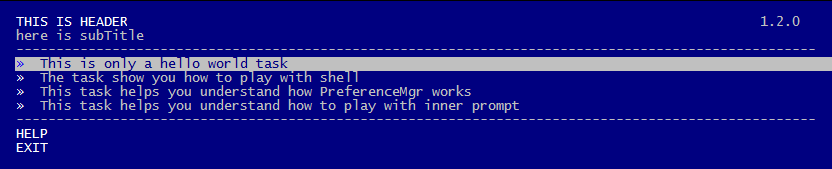
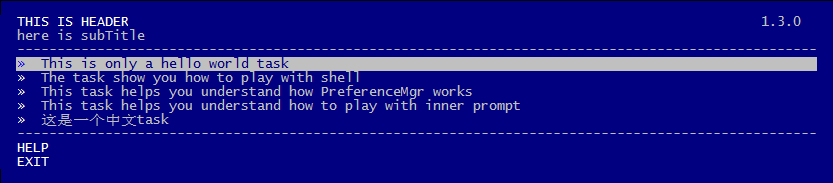
support menu item contains charater which length is larger than 1

Changed region(s): [[0.0, 0.2663, 1.0, 0.9172], [0.0, 0.0888, 0.1875, 0.2367], [0.9062, 0.0888, 0.9688, 0.1775]]

diff --git a/index.js b/index.js
@@ -15,6 +15,8 @@ var logger = utils.logger;
 var defaults = {
     title: '===============================================',
     subtitle: '-----------------------------------------',
+    helpTxt: 'HELP',
+    exitTxt: 'EXIT',
     width: 100,
     x: 3,
     y: 2,
@@ -45,7 +47,7 @@ var createMenu = function(opts) {
         //clean up the terminal
         menu.reset();
         //display the title
-        menu.write(chalk.bold(options.title.toUpperCase()) + utils.repeat(' ', options.width - options.title.length - options.version.length - 2) + chalk.dim(options.version) + '\n');
+        menu.write(chalk.bold(options.title.toUpperCase()) + utils.repeat(' ', options.width - utils.length(options.title, 'utf-8') - options.version.length - 2) + chalk.dim(options.version) + '\n');
         //display the subtitle
         menu.write(chalk.italic(options.subtitle) + '\n');
         //display start separator
@@ -53,18 +55,20 @@ var createMenu = function(opts) {
 
 
         tasks.forEach(function(task, index) {
-            menu.add(chalk.bold('»') + ' ' + task.name + utils.repeat(' ', options.width - task.name.length - 1));
+            menu.add(chalk.bold('»') + ' ' + task.name + utils.repeat(' ', options.width - utils.length(task.name) - 3));
         });
 
         //display end separator
         menu.write(utils.repeat('-', options.width) + '\n');
         //display help
-        menu.add(chalk.bold('HELP'));
+        if (fs.existsSync(options.helpFile)) {
+            menu.add(chalk.bold(options.helpTxt) + utils.repeat(' ', options.width - utils.length(options.helpTxt)));
+        }
         //display exit
-        menu.add(chalk.bold('EXIT'));
+        menu.add(chalk.bold(options.exitTxt) + utils.repeat(' ', options.width - utils.length(options.exitTxt)));
 
         menu.on('select', function(label, index) {
-            var name = chalk.stripColor(label).replace(/(^»?\s+)/g, '');
+            var name = chalk.stripColor(label).replace(/(^»?\s+)|(\s+$)/g, '');
 
             menu.y = 0;
             menu.reset();
@@ -75,12 +79,9 @@ var createMenu = function(opts) {
             }
 
             if (name === 'HELP') {
-                if (fs.existsSync(options.helpFile)) {
-                    utils.printFile(options.helpFile);
-                }
+                utils.printFile(options.helpFile);
                 return;
             }
-
             var task = taskMgr.getTaskByIndex(index);
 
             var runner = taskMgr.run(task.id);

diff --git a/libs/Utils.js b/libs/Utils.js
@@ -14,7 +14,7 @@ var convertInput = function(parameters) {
         if (typeof value === 'object') {
             try {
                 return JSON.stringify(value);
-            } catch (e) {
+            } catch ( e ) {
                 return value.toString();
             }
         }
@@ -51,6 +51,17 @@ var Utils = {
     repeat: function(ch, sz) {
         return new Array(sz + 1).join(ch);
     },
+    length: function(str) {
+        var len = 0;
+        for (var i = 0; i < str.length; i++) {
+            if (str.charCodeAt(i) > 256) {
+                len += 2;
+                continue;
+            }
+            len += 1;
+        }
+        return len;
+    },
     convertPath: function(path) {
         var p = path;
         if (isWin) {
@@ -86,7 +97,7 @@ var Utils = {
             contents = colorsTmpl(contents);
 
             console.log(contents);
-        } catch (e) {
+        } catch ( e ) {
             throw e;
         }
 

diff --git a/examples/tasks/chinese/Task.js b/examples/tasks/chinese/Task.js
@@ -1,0 +1,16 @@
+var TaskRunner = require('../../../index');
+var logger = TaskRunner.logger;
+
+
+
+var Task = TaskRunner.Base.extend({
+    id: 'chinese',
+    name: '这是一个中文task',
+    position: 5,
+    run: function(cons) {
+        logger.warn('您好，世界');
+    }
+});
+
+
+module.exports = Task;

diff --git a/test/basic.js b/test/basic.js
@@ -1,0 +1,10 @@
+var describe = require('mocha').describe;
+var it = require('mocha').it;
+
+describe('basic test', function() {
+
+    it('should work in any mode', function(done) {
+        done();
+    });
+
+});

diff --git a/README.md b/README.md
@@ -1,8 +1,9 @@
 terminal-task-runner
 ===========
+[![NPM version][npm-image]][npm-url]
+![][david-url]
+![][travis-url]
 
-![](http://img.shields.io/badge/npm_module-v1.2.0-green.svg?style=flat)  ![](http://img.shields.io/badge/dependencies-latest-yellowgreen.svg?style=flat)
-![](http://img.shields.io/badge/build-passing-brightgreen.svg?style=flat)
 
 > Terminal task execution system
 
@@ -61,6 +62,18 @@ Type: `String`
 Default: `--------------------`
 
 The subtitle displayed below the `title`.
+
+#### options.helpTxt
+Type: `String`
+Default: `HELP`
+
+The text will be displayed if you have set `helpFile`.
+
+#### options.exitTxt
+Type: `String`
+Default: `EXIT`
+
+The text will be displayed at the bottom of the terminal UI.
 
 #### options.width
 Type: `number`
@@ -180,3 +193,9 @@ new Shell(['ls -l *<%= suffix %>'], {
 ## LICENSE ##
 
 [MIT License](https://raw.githubusercontent.com/leftstick/task-runner/master/LICENSE)
+
+
+[npm-url]: https://npmjs.org/package/terminal-task-runner
+[npm-image]: https://badge.fury.io/js/terminal-task-runner.png
+[david-url]:https://david-dm.org/leftstick/task-runner.png
+[travis-url]:https://api.travis-ci.org/leftstick/terminal-task-runner.svg?branch=master
